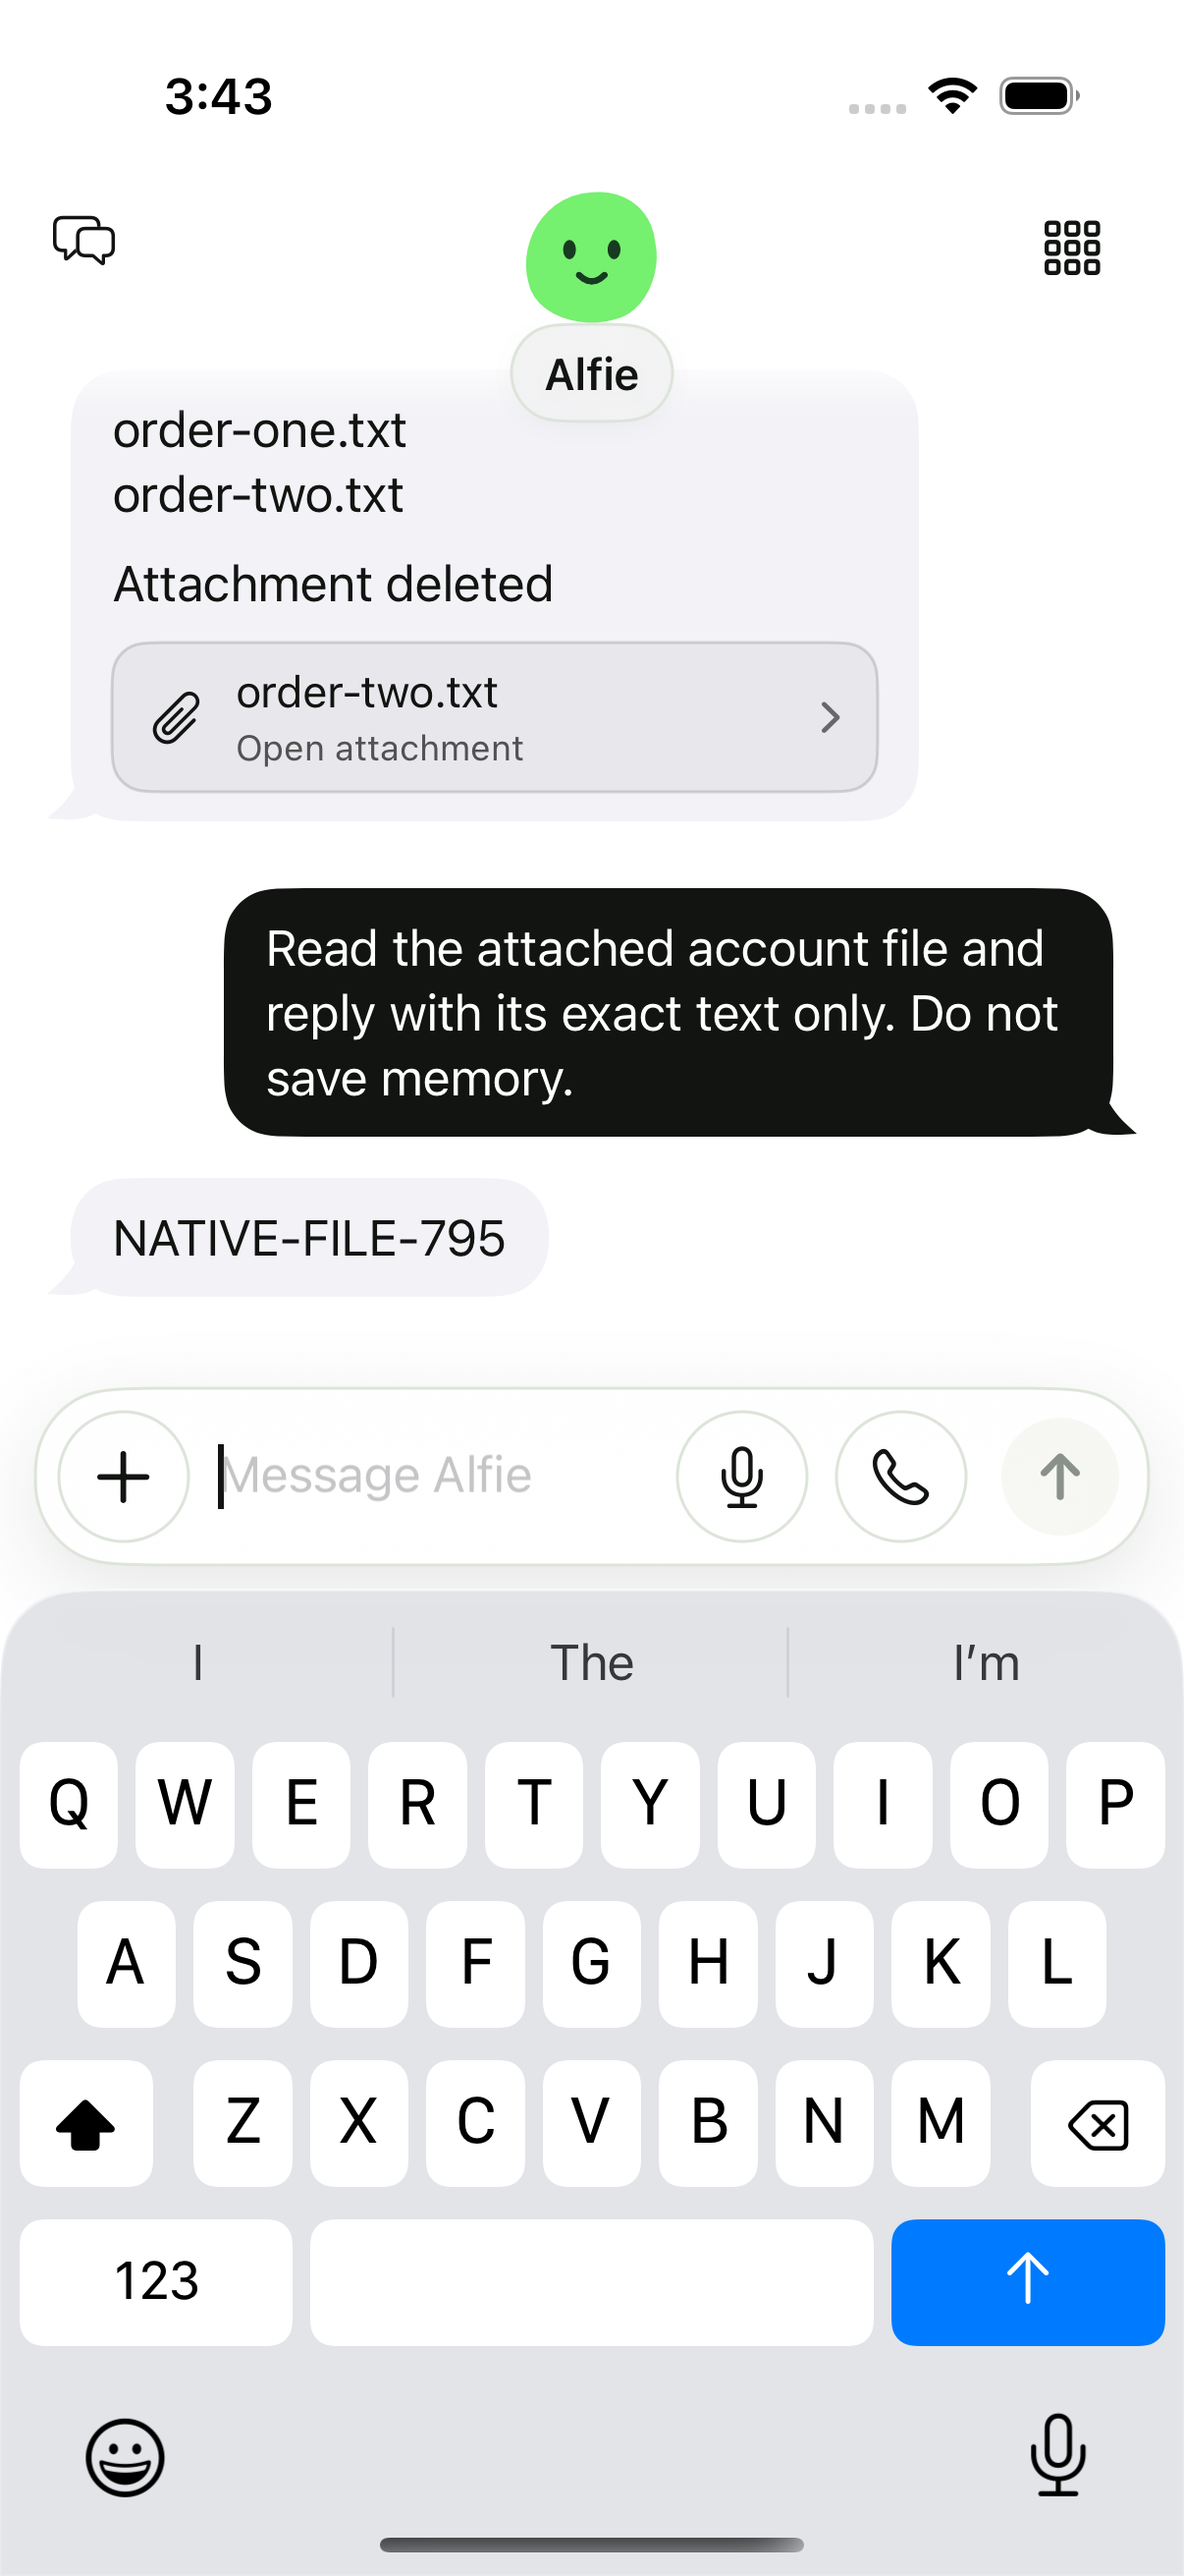
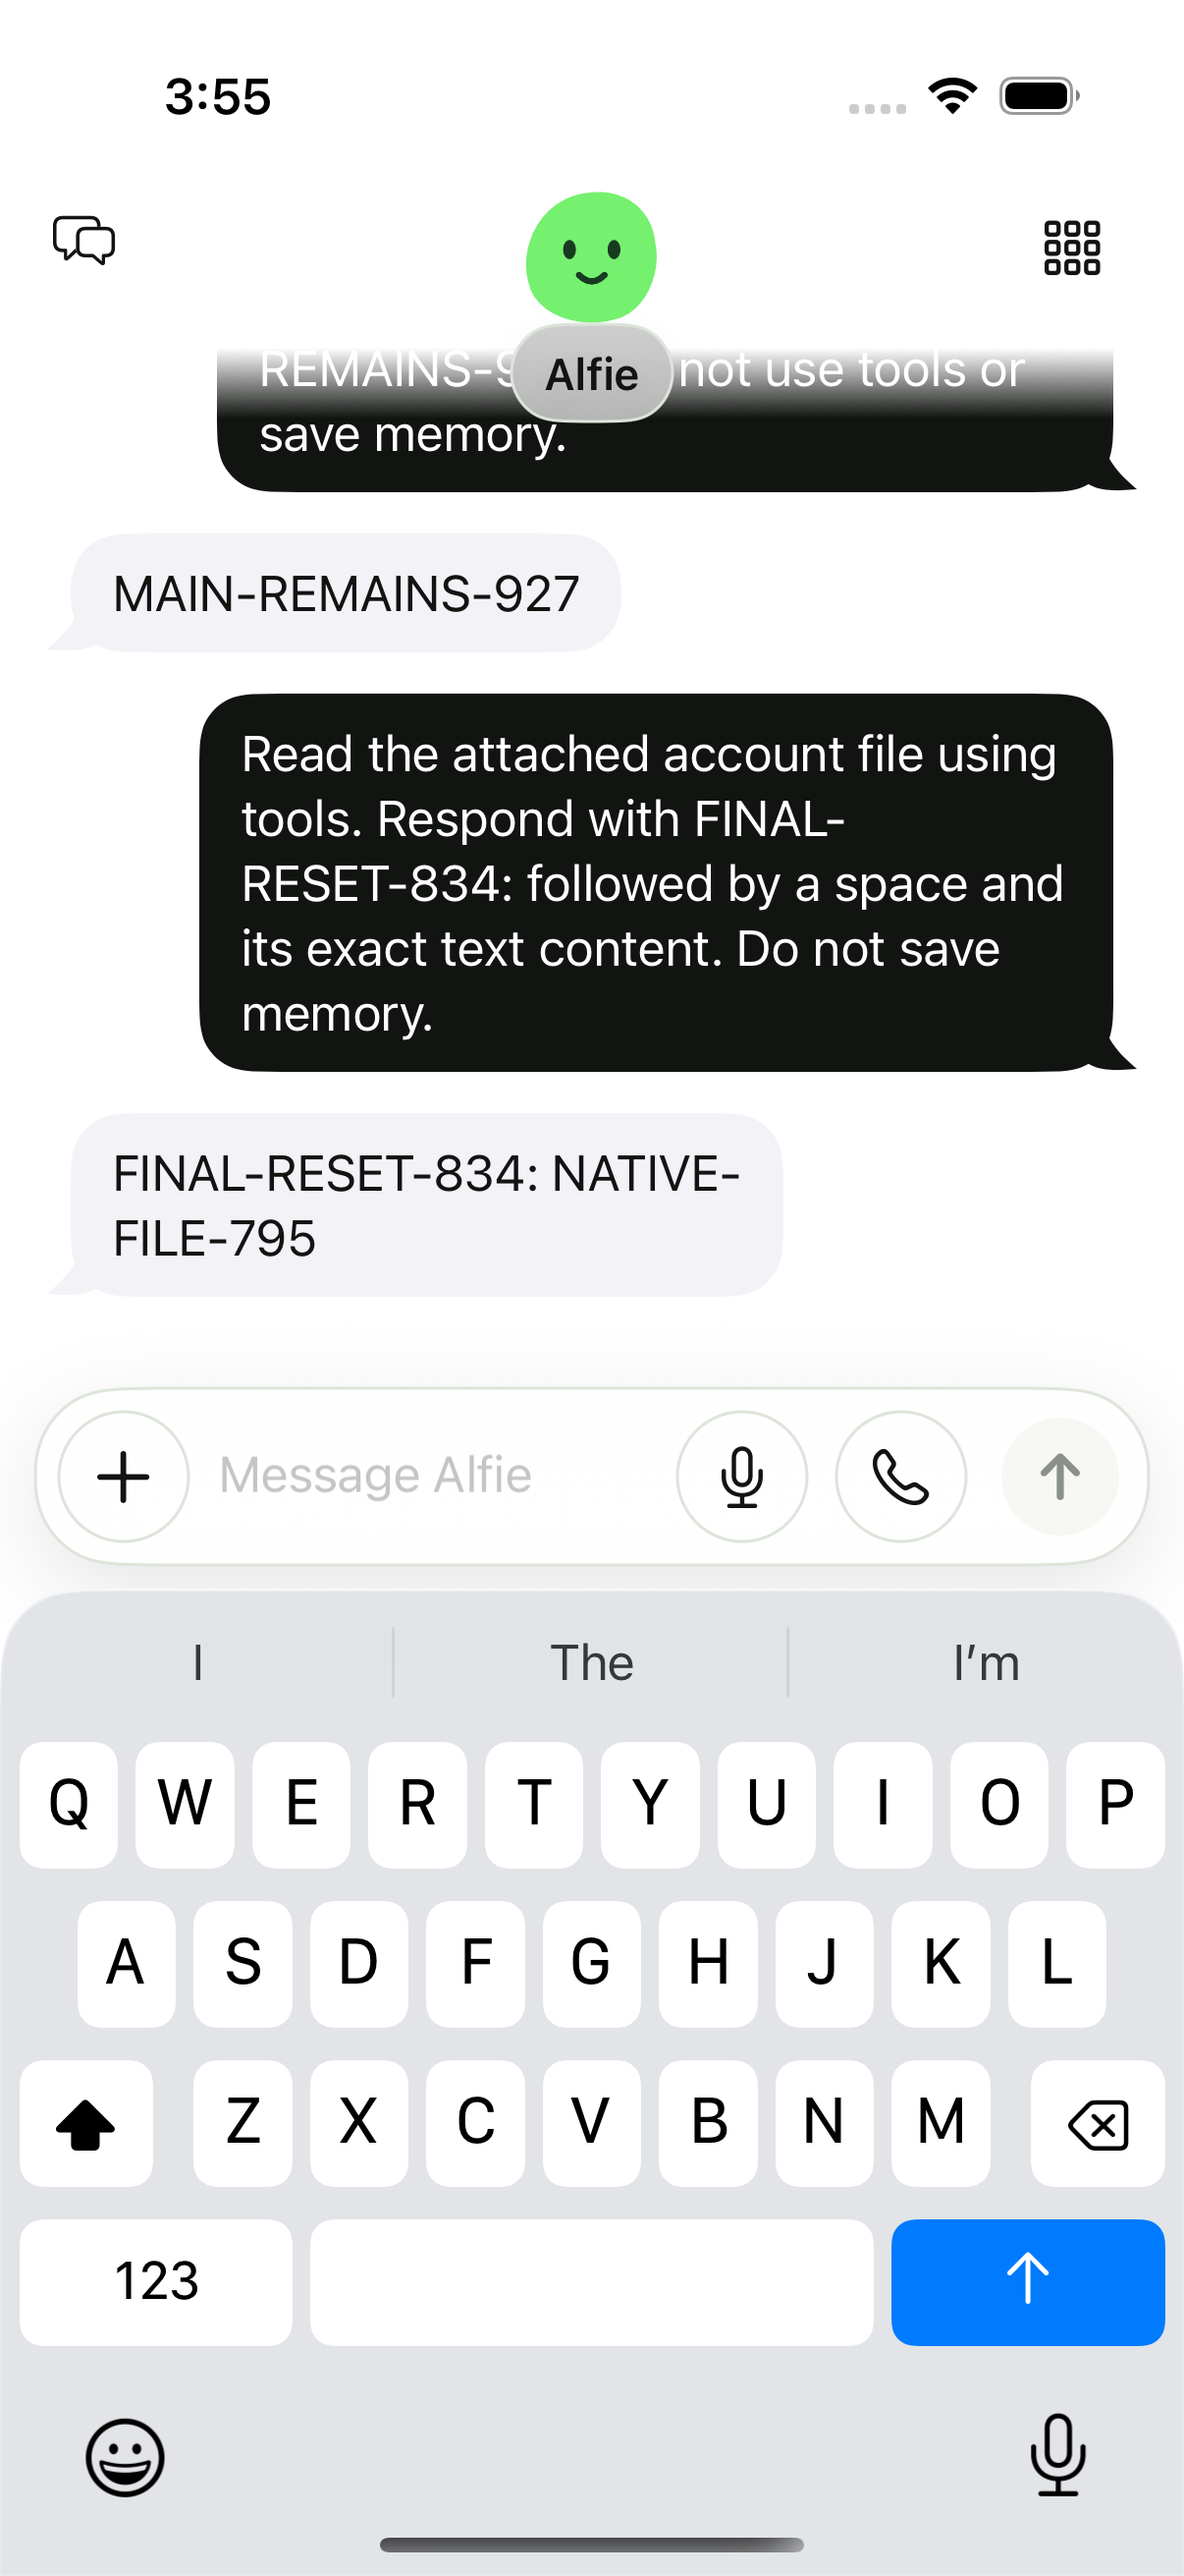
Add final Simulator file verification and gallery entry

Changed region(s): [[0.092, 0.1236, 0.9511, 0.4943], [0.1841, 0.5561, 0.2148, 0.587], [0.1841, 0.0309, 0.2148, 0.0618]]

diff --git a/README.md b/README.md
@@ -1,0 +1,9 @@
+# Alfie side chats staging QA
+
+[Open the GitHub Pages screenshot gallery](https://dasmer.github.io/alfie-side-chats-staging-qa/) · [Read the validation report](report.md)
+
+Real web and iOS 26.2 Simulator screenshots, plus staging API evidence. Only synthetic QA accounts and files. API #837, web #347 and iOS #441 remain unmerged.
+
+![Web pinned Main](screenshots/web-01-pinned-main.jpg)
+
+The report distinguishes live staging, deterministic checks, feature-gated cases, and the remaining live-test limits.
